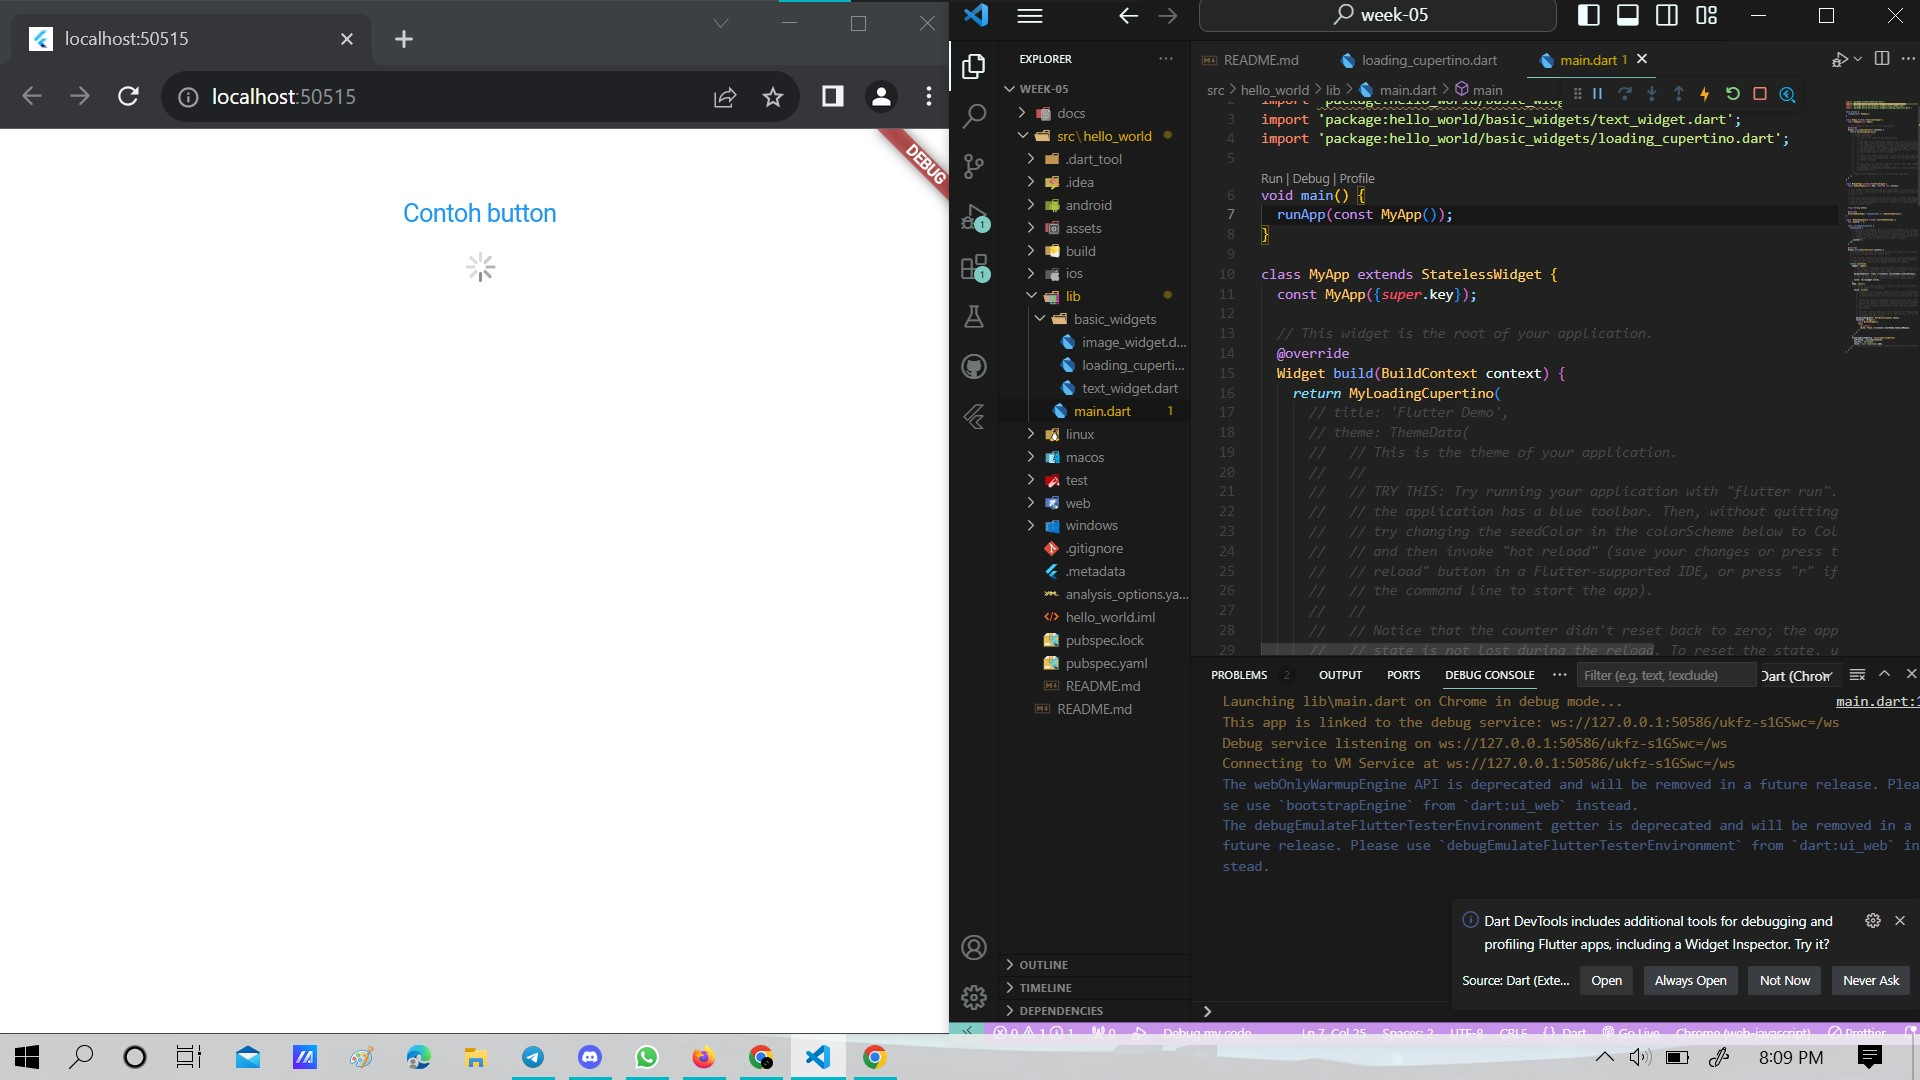
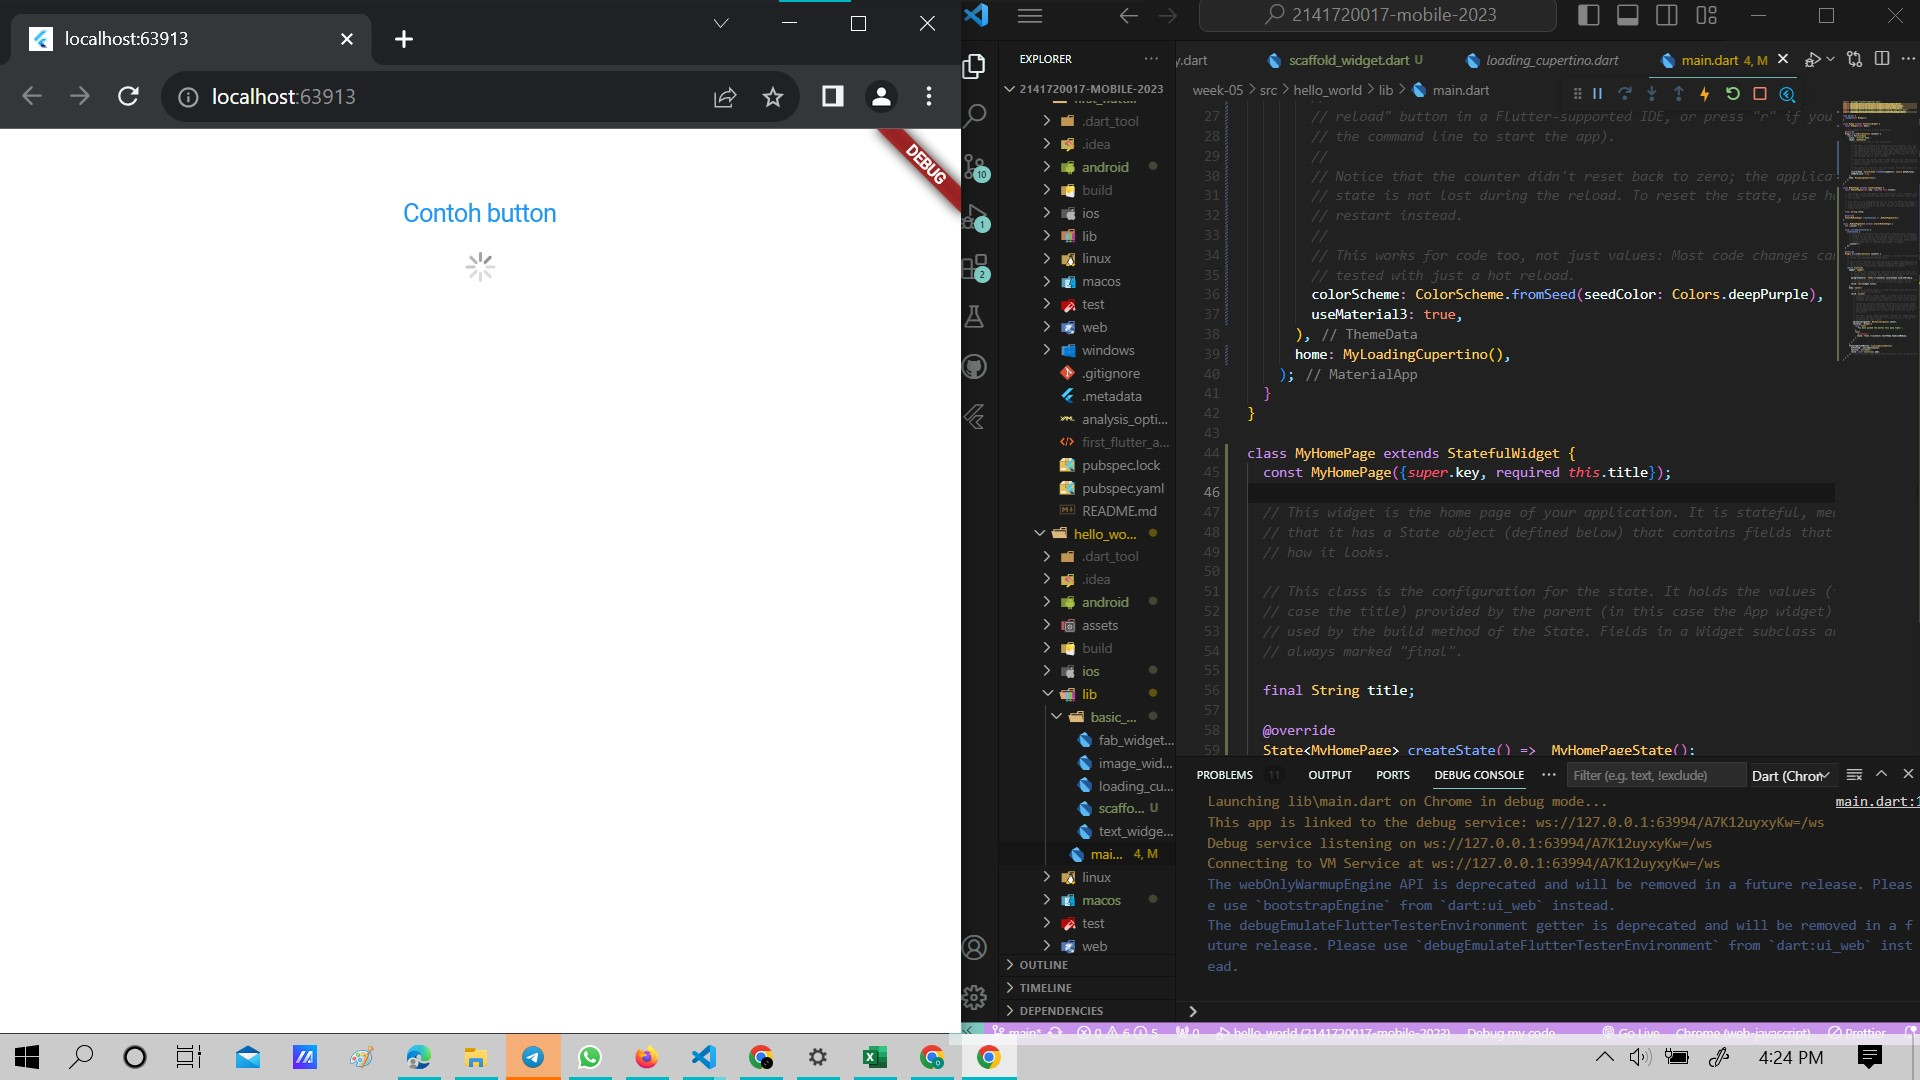
Week-05

diff --git a/week-05/src/hello_world/lib/main.dart b/week-05/src/hello_world/lib/main.dart
@@ -3,13 +3,17 @@ import 'package:hello_world/basic_widgets/fab_widget.dart';
 import 'package:hello_world/basic_widgets/image_widget.dart';
 import 'package:hello_world/basic_widgets/text_widget.dart';
 import 'package:hello_world/basic_widgets/loading_cupertino.dart';
+import 'package:hello_world/basic_widgets/scaffold_widget.dart';
+import 'package:hello_world/basic_widgets/dialog_widget.dart';
+import 'basic_widgets/input_and_selection.dart';
+import 'basic_widgets/datetimepicker_widget.dart';
 
 void main() {
   runApp(const MyApp());
 }
 
 class MyApp extends StatelessWidget {
-  const MyApp({Key? key}) : super(key: key);
+  const MyApp({super.key});
 
   // This widget is the root of your application.
   @override
@@ -17,10 +21,35 @@ class MyApp extends StatelessWidget {
     return MaterialApp(
       title: 'Flutter Demo',
       theme: ThemeData(
-        primarySwatch: Colors.red,
+        // tested with just a hot reload.
+        colorScheme: ColorScheme.fromSeed(seedColor: Colors.red),
+        useMaterial3: true,
       ),
-      home: const MyHomePage(title: 'My Increment App'),
+      home: MyFabWidget(
+      ),
     );
   }
 }
 
+class MyHomePage extends StatefulWidget {
+  const MyHomePage({Key? key, required this.title}) : super(key: key);
+
+  final String title;
+
+  @override
+  _MyHomePageState createState() => _MyHomePageState();
+}
+
+class _MyHomePageState extends State<MyHomePage> {
+  @override
+  Widget build(BuildContext context) {
+    return Scaffold(
+      appBar: AppBar(
+        title: Text(widget.title),
+      ),
+      body: Center(
+        child: const DateTimePickerWidget(),
+      ),
+    );
+  }
+}

diff --git a/week-05/src/hello_world/lib/basic_widgets/datetimepicker_widget.dart b/week-05/src/hello_world/lib/basic_widgets/datetimepicker_widget.dart
@@ -1,0 +1,50 @@
+import 'dart:async';
+import 'package:flutter/material.dart';
+
+class DateTimePickerWidget extends StatefulWidget {
+  const DateTimePickerWidget({Key? key}) : super(key: key);
+
+  @override
+  _DateTimePickerWidgetState createState() => _DateTimePickerWidgetState();
+}
+
+class _DateTimePickerWidgetState extends State<DateTimePickerWidget> {
+  // Variable/State untuk mengambil tanggal
+  DateTime selectedDate = DateTime.now();
+
+  // Initial SelectDate Flutter
+  Future<void> _selectDate(BuildContext context) async {
+    // Initial DateTime Final Picked
+    final DateTime? picked = await showDatePicker(
+        context: context,
+        initialDate: selectedDate,
+        firstDate: DateTime(2015, 8),
+        lastDate: DateTime(2101));
+    if (picked != null && picked != selectedDate) {
+      setState(() {
+        selectedDate = picked;
+      });
+    }
+  }
+
+  @override
+  Widget build(BuildContext context) {
+    return Column(
+      mainAxisSize: MainAxisSize.min,
+      children: <Widget>[
+        Text("${selectedDate.toLocal()}".split(' ')[0]),
+        const SizedBox(
+          height: 20.0,
+        ),
+        ElevatedButton(
+          onPressed: () => {
+            _selectDate(context),
+            // ignore: avoid_print
+            print(selectedDate.day + selectedDate.month + selectedDate.year)
+          },
+          child: const Text('Pilih Tanggal'),
+        ),
+      ],
+    );
+  }
+}

diff --git a/week-05/src/hello_world/lib/basic_widgets/scaffold_widget.dart b/week-05/src/hello_world/lib/basic_widgets/scaffold_widget.dart
@@ -1,0 +1,47 @@
+import 'package:flutter/material.dart';
+
+class ScaffoldWidget extends StatelessWidget {
+  final Function incrementCounter;
+  final String title;
+  final int counterValue;
+
+  ScaffoldWidget({
+    required this.incrementCounter,
+    required this.title,
+    required this.counterValue,
+  });
+
+  @override
+  Widget build(BuildContext context) {
+    return Scaffold(
+      appBar: AppBar(
+        title: Text(title),
+      ),
+      body: Center(
+        child: Column(
+          mainAxisAlignment: MainAxisAlignment.center,
+          children: <Widget>[
+            const Text(
+              'You have pushed the button this many times:',
+            ),
+            Text(
+              '$counterValue',
+              style: Theme.of(context).textTheme.headline4,
+            ),
+          ],
+        ),
+      ),
+      bottomNavigationBar: BottomAppBar(
+        child: Container(
+          height: 50.0,
+        ),
+      ),
+      floatingActionButton: FloatingActionButton(
+        onPressed: () => incrementCounter(),
+        tooltip: 'Increment Counter',
+        child: const Icon(Icons.add),
+      ),
+      floatingActionButtonLocation: FloatingActionButtonLocation.centerDocked,
+    );
+  }
+}

diff --git a/week-05/src/hello_world/lib/basic_widgets/dialog_widget.dart b/week-05/src/hello_world/lib/basic_widgets/dialog_widget.dart
@@ -1,0 +1,21 @@
+import 'package:flutter/material.dart';
+
+class DialogWidget extends StatelessWidget {
+  const DialogWidget({Key? key}) : super(key: key);
+
+  @override
+  Widget build(BuildContext context) {
+    return AlertDialog(
+      title: const Text("My title"),
+      content: const Text("This is my message."),
+      actions: [
+        TextButton(
+          child: const Text("OK"),
+          onPressed: () {
+            Navigator.pop(context);
+          },
+        ),
+      ],
+    );
+  }
+}

diff --git a/week-05/src/hello_world/lib/basic_widgets/input_and_selection.dart b/week-05/src/hello_world/lib/basic_widgets/input_and_selection.dart
@@ -1,0 +1,16 @@
+import 'package:flutter/material.dart';
+
+class InputAndSelection extends StatelessWidget {
+  const InputAndSelection({Key? key}) : super(key: key);
+
+  @override
+  Widget build(BuildContext context) {
+    return TextField(
+      obscureText: false,
+      decoration: InputDecoration(
+        border: OutlineInputBorder(),
+        labelText: 'Nama',
+      ),
+    );
+  }
+}

diff --git a/week-05/README.md b/week-05/README.md
@@ -1,0 +1,130 @@
+## Tugas pertemuan 5 Pemrograman Mobile - Flutter Fundamental 1 #
+
+Nama : Alvina Marcy Syakirah Permata
+
+NIM : 2141720017
+
+Kelas: TI-3F
+
+Absen : 03
+
+## Praktikum 1
+### Langkah 1
+
+Membuat New Project Flutter tekan tombol Ctrl + Shift + P maka akan tampil Command Palette, lalu ketik Flutter. Pilih New Application Project.
+
+![Screenshot](docs/newprojek1.jpg)
+![Screenshot](docs/newprojek2.jpg)
+
+### Langkah 2
+
+Tentukan dimana folder ingin di letakkan
+
+![Screenshot](docs/newprojek3.jpg)
+
+### Langkah 3
+
+Buat nama project. Disini saya membuat nama project hello_world
+
+![Screenshot](docs/newprojek4.jpg)
+
+### Langkah 4
+
+Pesan akan tampil berupa "Your Flutter Project is ready!" artinya Anda telah berhasil membuat project Flutter baru.
+
+![Screenshot](docs/newprojek5.jpg)
+
+## praktikum 3
+
+### Langkah 1 : Text Widget
+![Screenshot](docs/p1l1.jpg)
+
+jangan lupa import file text_widget.dart di main. ganti bagian main di class _MyHomePageState
+
+![Screenshot](docs/hp6.jpg)
+
+### Langkah 2 : Image Widget
+![Screenshot](docs/p1l3.jpg)
+
+ini menampilkan gambar. pada flutter jika ingin menampilkan gambar juga harus mengatur di file pubspec.yaml lalu sesuailan direktori dimana anda meletakkan gambar 
+![Screenshot](docs/p1l3-2.jpg)
+
+saat memanggilnya juga sesuaikan direktorinya
+![Screenshot](docs/p1l3-23.jpg)
+
+Tampilan pada andorid
+![Screenshot](docs/hp5.jpg)
+## Praktikum 4
+### langkah 1
+
+membuat tampilan ketika program sedang di proses atau sedang loading
+![screenshoot](docs/p4l1.jpg) ![Screenshot](docs/hp1.jpg)
+
+### langkah 2
+![Screenshot](docs/p4l2.jpg) ![Screenshot](docs/hp12.jpg)
+
+### langkah 3
+![Screenshot](docs/p4l3.jpg)
+
+Tugas memisahkan scafflod dalam folder basic_widgets dan di panggil di main
+![Screenshot](docs/scaffold_pisah.jpg)
+
+Tampilan Mobile
+![Screenshot](docs/hp7.jpg)
+
+### langkah 4
+![Screenshot](docs/p4l4.jpg)
+
+Tugas memisahkan dialog widget dalam folder basic_widgets dan di panggil di main
+
+![Screenshot](docs/hp8.jpg)
+
+### langkah 5
+![Screenshot](docs/p4l5.jpg)
+
+Tugas memisahkan input dan selection widget dalam folder basic_widgets dan di panggil di main
+
+![Screenshot](docs/p4l5_pisah.jpg)
+
+![Screenshot](docs/hp9.jpg)
+
+### langkah 6
+![Screenshot](docs/p4l6_button.jpg)
+![Screenshot](docs/p4l6_calender.jpg)
+
+tugas memisahkan calender widget dalam folder basic_widgets dan di panggil di main
+
+![Screenshot](docs/datetime_pisah.jpg)
+
+![Screenshot](docs/hp10.jpg)
+![Screenshot](docs/hp11.jpg)
+![Screenshot](docs/hp12.jpg)
+
+## Tugas First FLutter App
+![Screenshot](docs/first%20flutter%20app%201.jpg)
+![Screenshot](docs/first%20flutter%20app%202.jpg)
+![Screenshot](docs/first%20flutter%20app%203.jpg)
+![Screenshot](docs/first%20flutter%20app%204-1.jpg)
+![Screenshot](docs/first%20flutter%20app%204-2.jpg)
+![Screenshot](docs/first%20flutter%20app%205.jpg)
+![Screenshot](docs/first%20flutter%20app%206%20wrap%20with%20padding.jpg.jpg)
+![Screenshot](docs/first%20flutter%20app%207%20card.jpg)
+![Screenshot](docs/first%20flutter%20app%208%20theme%20and%20style.jpg)
+![Screenshot](docs/first%20flutter%20app%209.jpg)
+![Screenshot](docs/first%20flutter%20app%209-1.jpg)
+![Screenshot](docs/first%20flutter%20app%2010.jpg)
+![Screenshot](docs/first%20flutter%20app%2011.jpg)
+![Screenshot](docs/first%20flutter%20app%2012.jpg)
+![Screenshot](docs/first%20flutter%20app%2013.jpg)
+![Screenshot](docs/first%20flutter%20app%2014.jpg)
+![Screenshot](docs/first%20flutter%20app%2015.jpg)
+![Screenshot](docs/first%20flutter%20app%2016.jpg)
+![Screenshot](docs/first%20flutter%20app%2017.jpg)
+![Screenshot](docs/first%20flutter%20app%2018.jpg)
+![Screenshot](docs/first%20flutter%20app%2019-1.jpg)
+![Screenshot](docs/first%20flutter%20app%2019-2.jpg)
+
+run app di android
+![Screenshot](docs/hp1.jpg)
+![Screenshot](docs/hp2.jpg)
+![Screenshot](docs/hp3.jpg)
